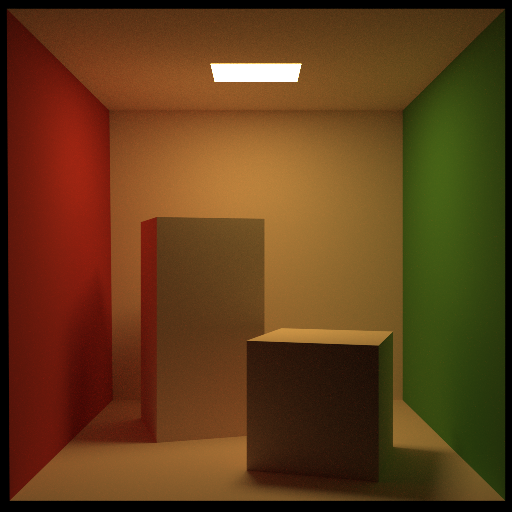
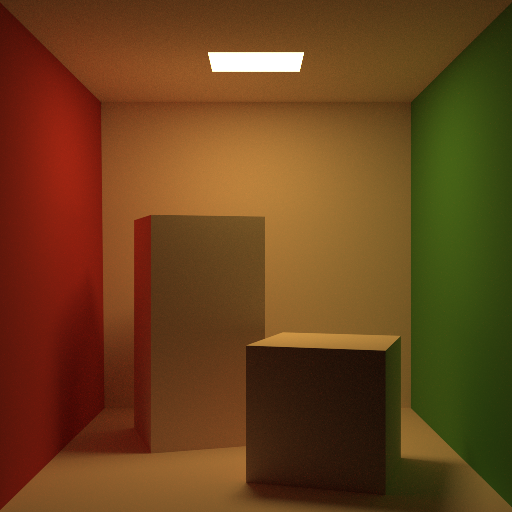
Now Veach's MIS scene is supported.

diff --git a/sources/core/engine.cc b/sources/core/engine.cc
@@ -42,12 +42,18 @@ Vector3d getVector3d(const std::string& attr) {
 
 Spectrum getSpectrum(const std::string& attr) {
     const char* ptr = &attr[0];
+    double r, g, b;
+    if (sscanf(ptr, "%lf, %lf, %lf", &r, &g, &b) == 3 ||
+        sscanf(ptr, "%lf %lf %lf", &r, &g, &b) == 3) {
+        return RGBSpectrum(r, g, b);
+    }
+
     double nm;
     double value;
     std::vector<double> nms;
     std::vector<double> values;
     while (ptr) {
-        sscanf(ptr, "%lf:%lf", &nm, &value);
+        if (sscanf(ptr, "%lf:%lf", &nm, &value) != 2) break;
         nms.push_back(nm);
         values.push_back(value);
         ptr = strstr(ptr, ",");
@@ -57,7 +63,16 @@ Spectrum getSpectrum(const std::string& attr) {
             break;
         }
     }
-    return Spectrum(nms, values);
+
+    if (!nms.empty() && !values.empty()) {
+        return Spectrum(nms, values);
+    }
+
+    if (sscanf(ptr, "%lf", &r) == 1) {
+        return Spectrum(r);       
+    }
+
+    return Spectrum();
 }
 
 }  // anonymous namespace
@@ -161,13 +176,71 @@ void Engine::start(const std::string& filename) const {
                 OBJMeshIO loader;
                 shapes = loader.load(objfile, toWorld);
             }
+        } else if (type == "sphere") {
+            Point3d center;
+            if (child.second.get<std::string>("point.<xmlattr>.name") == "center") {
+                double x = child.second.get<double>("point.<xmlattr>.x");
+                double y = child.second.get<double>("point.<xmlattr>.y");
+                double z = child.second.get<double>("point.<xmlattr>.z");
+                center = Point3d(x, y, z);
+            }
+            double r = child.second.get<double>("float.<xmlattr>.value");
+            shapes.push_back(std::make_shared<Sphere>(center, r));
         }
 
         // Material
         std::shared_ptr<Material> mtrl = nullptr;
+        // Check existance of subsurface 
+        bool isSubsurface = false;
+        if (child.second.find("subsurface") != child.second.not_found()) {
+            isSubsurface = true;            
+        }
+
         if (child.second.find("ref") != child.second.not_found()) {
             std::string id = child.second.get<std::string>("ref.<xmlattr>.id");
             mtrl = materials[id];
+        } else if (child.second.find("bsdf") != child.second.not_found()) {
+            const std::string bsdfType = child.second.get<std::string>("bsdf.<xmlattr>.type");
+            if (bsdfType == "diffuse") {
+                Spectrum ref;
+                if (child.second.get_child("bsdf").find("rgb") != child.second.get_child("bsdf").not_found()) {
+                    ref = getSpectrum(child.second.get<std::string>("bsdf.rgb.<xmlattr>.value"));
+                } else {
+                    ref = getSpectrum(child.second.get<std::string>("bsdf.spectrum.<xmlattr>.value"));                
+                }
+                mtrl = std::make_shared<LambertianMaterial>(
+                       std::make_shared<ConstantTexture<Spectrum>>(ref));
+            } else if (bsdfType == "roughplastic") {
+                Spectrum diffuse(0.9999);
+                Spectrum specular(0.9999);                
+                for (const auto& k : child.second.get_child("bsdf")) {
+                    if (k.first == "rgb" || k.first == "spectrum") {
+                        std::string refName = k.second.get<std::string>("<xmlattr>.name");
+                        if (refName == "diffuseReflectance") {
+                            diffuse = getSpectrum(k.second.get<std::string>("<xmlattr>.value"));
+                        } else if (refName == "specularReflectance") {
+                            specular = getSpectrum(k.second.get<std::string>("<xmlattr>.value"));                    
+                        }
+                    }
+                }
+
+                if (isSubsurface) {
+                    double scale = 0.2;
+                    auto Kr      = std::make_shared<ConstantTexture<Spectrum>>(diffuse);
+                    auto Kt      = std::make_shared<ConstantTexture<Spectrum>>(Spectrum(0.9999));
+                    auto sigma_a = std::make_shared<ConstantTexture<Spectrum>>(Spectrum(0.0014, 0.0025, 0.0142));
+                    auto sigma_s = std::make_shared<ConstantTexture<Spectrum>>(Spectrum(0.70, 1.22, 1.90));
+                    const double g = 0.0;
+                    const double eta = 1.3;
+                    mtrl = std::make_shared<SubsurfaceMaterial>(scale, Kr, Kt, sigma_a, sigma_s, g, eta);
+                } else {
+                    auto Kd = std::make_shared<ConstantTexture<Spectrum>>(diffuse);
+                    auto Ks = std::make_shared<ConstantTexture<Spectrum>>(specular);
+                    std::cout << "Kd: " << diffuse << std::endl;
+                    std::cout << "Ks: " << specular << std::endl;
+                    mtrl = std::make_shared<PlasticMaterial>(Kd, Ks);
+                }
+            }
         }
 
         // Emitter
@@ -179,7 +252,12 @@ void Engine::start(const std::string& filename) const {
 
             for (const auto& shape : shapes) {
                 if (lightType == "area") {
-                    Spectrum Le = getSpectrum(child.second.get<std::string>("emitter.spectrum.<xmlattr>.value"));
+                    Spectrum Le; 
+                    if (child.second.get_child("emitter").find("rgb") != child.second.get_child("emitter").not_found()) {
+                        Le = getSpectrum(child.second.get<std::string>("emitter.rgb.<xmlattr>.value"));
+                    } else {
+                        Le = getSpectrum(child.second.get<std::string>("emitter.spectrum.<xmlattr>.value"));
+                    }
                     lights.emplace_back(new AreaLight(shape, toWorld, Le));
                 }
             }
@@ -288,7 +366,7 @@ bool Engine::parseCamera(const boost::property_tree::ptree& xml,
         }
 
         Transform toWorld;
-        double fov, nearClip, farClip, focusDistance, lensr = 1.0;
+        double fov, nearClip, farClip, focusDistance = 1.0, lensr = 0.0;
         for (const auto& props : xml.get_child("scene.sensor")) {
             if (props.first == "<xmlattr>") continue;
 
@@ -332,6 +410,7 @@ bool Engine::parseCamera(const boost::property_tree::ptree& xml,
     } else {
         FatalError("Unknown sensor type \"%s\" is specified!!\n", type.c_str());
     }
+    return true;
 }
 
 bool Engine::parseFilm(const boost::property_tree::ptree& xml,

diff --git a/sources/material/plastic.cc b/sources/material/plastic.cc
@@ -1,0 +1,51 @@
+#define SPICA_API_EXPORT
+#include "plastic.h"
+
+#include "../core/memory.h"
+#include "../core/interaction.h"
+#include "../bxdf/bxdf.h"
+#include "../bxdf/bsdf.h"
+#include "../bxdf/fresnel.h"
+#include "../bxdf/microfacet.h"
+#include "../texture/texture.h"
+
+namespace spica {
+
+PlasticMaterial::PlasticMaterial(const std::shared_ptr<Texture<Spectrum>>& Kd,
+                                 const std::shared_ptr<Texture<Spectrum>>& Ks,
+                                 const std::shared_ptr<Texture<double>>& roughness,
+                                 const std::shared_ptr<Texture<double>>& bumpMap,
+                                 bool remapRoughness)
+    : Material{}
+    , Kd_{ Kd }
+    , Ks_{ Ks }
+    , roughness_{ roughness }
+    , bumpMap_{ bumpMap } {
+}
+
+void PlasticMaterial::setScatterFuncs(SurfaceInteraction* isect,
+                                      MemoryArena& arena) const {
+    // if (bumpMap_) bump(bumpMap_, isect);
+
+    isect->setBSDF(arena.allocate<BSDF>(*isect));
+    
+    Spectrum kd = Kd_->evaluate(*isect);
+    if (!kd.isBlack()) {
+        //isect->bsdf()->add(arena.allocate<LambertianReflection>(kd));
+    }
+
+    Spectrum ks = Ks_->evaluate(*isect);
+    if (!ks.isBlack()) {
+        Fresnel* fresnel = arena.allocate<FresnelDielectric>(1.5, 1.0);
+        double rough = roughness_ ? roughness_->evaluate(*isect) : 0.0;
+        if (remapRoughness_) {
+            rough = TrowbridgeReitzDistribution::roughnessToAlpha(rough);
+        }
+
+        MicrofacetDistribution* distrib =
+            arena.allocate<TrowbridgeReitzDistribution>(rough, rough);
+        isect->bsdf()->add(arena.allocate<MicrofacetReflection>(ks, distrib, fresnel));
+    }
+}
+
+}  // namespace spica

diff --git a/sources/core/interaction.cc b/sources/core/interaction.cc
@@ -9,6 +9,16 @@
 
 namespace spica {
 
+namespace {
+
+Point3d offsetRayOrigin(const Point3d& p, const Normal3d& n, const Vector3d& w) {
+    Vector3d offset = EPS * Vector3d(n);
+    if (vect::dot(w, n) < 0.0) offset = -offset;
+    return p + offset;
+}
+
+}  // anonymous namespace
+
 // -----------------------------------------------------------------------------
 // Interaction method definitions
 // -----------------------------------------------------------------------------
@@ -53,16 +63,21 @@ Interaction& Interaction::operator=(const Interaction& intr) {
 }
 
 Ray Interaction::spawnRay(const Vector3d& wi) const {
-    return Ray(pos_, wi, INFTY, getMedium(wi));
+    Point3d origin = offsetRayOrigin(pos_, normal_, wi);
+    return Ray(origin, wi, INFTY, getMedium(wi));
 }
 
 Ray Interaction::spawnRayTo(const Point3d& p) const {
     Vector3d d = p - pos_;
-    return Ray(pos_, d, std::max(0.0, d.norm() - EPS), getMedium(d));
+    Point3d origin = offsetRayOrigin(pos_, normal_, d);
+    return Ray(origin, d, d.norm(), getMedium(d));
 }
 
 Ray Interaction::spawnRayTo(const Interaction& intr) const {
-    return spawnRayTo(intr.pos_);
+    Point3d origin = offsetRayOrigin(pos_, normal_, intr.pos_ - pos_);
+    Point3d target = offsetRayOrigin(intr.pos_, intr.normal_, origin - intr.pos_);
+    Vector3d d = target - origin;
+    return Ray(origin, d, d.norm(), getMedium(d));
 }
 
 

diff --git a/sources/material/plastic.h b/sources/material/plastic.h
@@ -1,0 +1,33 @@
+#ifdef _MSC_VER
+#pragma once
+#endif
+
+#ifndef _SPICA_PLASTIC_H_
+#define _SPICA_PLASTIC_H_
+
+#include "../core/common.h"
+#include "../core/spectrum.h"
+#include "material.h"
+
+namespace spica {
+
+class SPICA_EXPORTS PlasticMaterial : public Material {
+public:
+    PlasticMaterial(const std::shared_ptr<Texture<Spectrum>>& Kd,
+                    const std::shared_ptr<Texture<Spectrum>>& Ks,
+                    const std::shared_ptr<Texture<double>>& roughness = nullptr,
+                    const std::shared_ptr<Texture<double>>& bumpMap = nullptr,
+                    bool remapRoughness = false);
+
+    void setScatterFuncs(SurfaceInteraction* isect,
+                         MemoryArena& arena) const override;
+
+private:
+    std::shared_ptr<Texture<Spectrum>> Kd_, Ks_;
+    std::shared_ptr<Texture<double>> roughness_, bumpMap_;
+    bool remapRoughness_;
+};
+
+}  // namespace spica
+
+#endif  // _SPICA_PLASTIC_H_

diff --git a/sources/shape/sphere.cc b/sources/shape/sphere.cc
@@ -117,7 +117,7 @@ bool Sphere::intersect(const Ray& ray) const {
 }
 
 Interaction Sphere::sample(const Point2d& rands) const {
-    Point3d pObj = Point3d(0.0, 0.0, 0.0) + 
+    Point3d pObj = center_ + 
                    radius_ * sampleUniformSphere(rands);
     Normal3d nrm = vect::normalize(objectToWorld_.apply(Normal3d(pObj)));
     return Interaction{ pObj, nrm };
@@ -145,7 +145,7 @@ Interaction Sphere::sample(const Interaction& isect,
     Vector3d su, sv;
     vect::coordinateSystem(sw, &su, & sv);
     Vector3d nObj = su * cos(phi) * cosAlpha + sv * sin(phi) * cosAlpha + sw * sinAlpha;
-    Vector3d pObj = radius_ * nObj;
+    Vector3d pObj = center_ + radius_ * nObj;
 
     return Interaction{ Point3d(pObj), Normal3d(nObj) };
 }

diff --git a/sources/core/engine.h b/sources/core/engine.h
@@ -13,9 +13,9 @@
 
 namespace boost {
 namespace property_tree {
-template < class Key, class Data, class KeyCompare = std::less<Key> >
+template < class Key, class Data, class KeyCompare >
 class basic_ptree;
-using ptree = basic_ptree<std::string, std::string>;
+using ptree = basic_ptree<std::string, std::string, std::less<std::string> >;
 }
 }
 

diff --git a/sources/integrator/mis.cc b/sources/integrator/mis.cc
@@ -130,7 +130,9 @@ Spectrum estimateDirectLight(const Interaction& intr,
                 Li = light.Le(ray);
             }
 
-            if (!Li.isBlack()) Ld += f * Li * Tr * weight / bsdfPdf;
+            if (!Li.isBlack()) {
+                Ld += f * Li * Tr * weight / bsdfPdf;
+            }
         }
     }
     return Ld;

diff --git a/sources/bxdf/bssrdf.cc b/sources/bxdf/bssrdf.cc
@@ -261,6 +261,7 @@ Spectrum DiffuseBSSRDF::sampleSp(const Scene& scene, double rand1,
             candidates.push_back(isect);
         }
         ray = isect.spawnRayTo(pTo);
+        Assertion(candidates.size() < 100, "Candidate too many!!");
     }
 
     if (candidates.empty()) return Spectrum(0.0);

diff --git a/sources/material/spica_material.h b/sources/material/spica_material.h
@@ -10,6 +10,8 @@
 #include "mirror.h"
 #include "metal.h"
 #include "glass.h"
+#include "plastic.h"
 #include "subsurface.h"
+#include "kdsubsurface.h"
 
 #endif  // _SPICA_MATERIAL_HEADERS_H_
